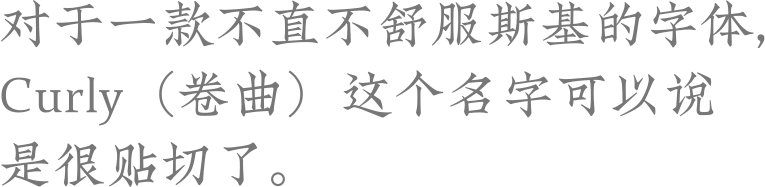
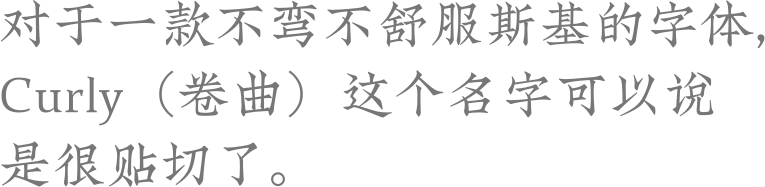
feat: 🎸 new content

Changed region(s): [[0.3608, 0.0267, 0.4209, 0.2406]]

diff --git a/src/data/dayInfo.ts b/src/data/dayInfo.ts
@@ -68,10 +68,10 @@ export default `
 3.4 | Axia Stencil Black | Axia Stencil | Stencil 指的笔画镂空的字体模板，它们会使用细线连接字腔（比如 O 中的圈）和主体，印到成品上时这些细线就成为了截断笔画的部分。 | |
 3.5 | Just Another Hand | JustAnotherHand-Regular.ttf | 山穷水尽疑无路，#柳暗花明又一村。 | 它源于作者某次心血来潮用一种全新的笔迹写#字。当苦于当下的困境时，不妨试试换一个思#路？|
 3.6 | Average | Average-Regular.ttf | 这是一款用许多衬线字体平均出来的「标准字」。 | 和之前社交网站上火过的标准脸给我有同样的感觉——它们绝对比超过一半的样本好看。 |
-3.7 | Curly | Curly.otf | 对于一款不直不舒服斯基的字体，#Curly（卷曲）这个名字可以说#是很贴切了。 | |
+3.7 | Curly | Curly.otf | 对于一款不弯不舒服斯基的字体，#Curly（卷曲）这个名字可以说#是很贴切了。 | |
 3.8 | Eskorte | Eskorte Latin | 「妇女能顶半边天」 | 今天的字体来自于早期占少数的女性设计师，是她们用自己的才华赢得了平等与尊重。 |
 3.9 | Press Start 2P | PressStart2P-Regular.ttf | 熟悉的像素风，是不是让你有再一次重拾红白机的感觉呢？ | |
-3.10 | Josefin Sans | JustAnotherHand-Regular.ttf | 奥斯卡奖使用的就是少许改动过的#Josefin Sans。 | |
+3.10 | Josefin Sans | JosefinSans-Light.ttf | 奥斯卡奖使用的就是少许改动过的#Josefin Sans。 | |
 3.11 | Alike Angular | AlikeAngular-Regular.ttf | 字体中的钢铁直男说得大概就是它#了！ | 这款字体用短直线代替了所有的弧线作为笔画边缘。 |
 3.12 | Fairwater | Fairwater Sailor Serif | 植树节，在屏幕上种下一颗小树苗#吧！ | |
 3.13 | IM Fell DW Pica SC | IMFePIsc28P.ttf | 一款自带侦探片音效的字体。 | 许多侦探小说翻拍的电影里都有打字机正在工作的镜头，而且一般内容都比较毛骨悚然（比如凶手的信之类的）。 |
@@ -80,22 +80,32 @@ export default `
 3.16 | 站酷庆科黄油体 | ZCOOLQingKeHuangYou-Regular.ttf | 线条刚硬却有带着一些圆角，恰似黄油软糯的质地吧！ | 这款包含了九千多个汉字的字体，由设计师郑庆科在站酷和 Google Fonts 发布免费商用版权。 |
 3.17 | Dragon Serial | SoftMaker - DragonSerial.otf | 二月二，龙抬头。| 今天是农历二月初二，传说是龙抬头的日字。 |
 3.18 | Libre Barcode 39 Text | LibreBarcode39Text-Regular.ttf | 这是一款自带条形码的字体…… | |
-
+3.19 | Srisakdi | Srisakdi-Regular.ttf | 这款字体的设计者是一个泰国人。字母中的装饰性元素很大程度上受到了泰文的启发。 | |
+3.20 | Crimson Text | CrimsonText-Regular.ttf | 有时候我们选择一种字体是为了让字体的特色尽可能弱化，而让文字内容得以彰显。 | 这是一款专为印刷书籍设计的字体。 |
+3.21 | Bungee Shade | BungeeShade-Regular.ttf | 有时候我们也需要非常令人印象深刻的字体，使得我们的招牌在大量的文字背景中脱颖而出。 | 这是一款为都市生活设计的招牌字体。 |
+3.22 | Over the Rainbow | OvertheRainbow.ttf | Somewhere over the rainbow#Way up high#There's a land that I heard of#Once in a lullaby | 又到周五了，听首好歌让心情放个假！ |
+3.23 | Bangers | Bangers-Regular.ttf | 为什么欧美漫画总用大写字母？#原因有些众说纷纭，其中的一种说法是，早期手写文本的年代，大写字母的可读性比小写字母更好一些。 | 这是一款 19 世纪超级英雄漫画常用的字体。 |
+3.24 | Orbitron | Orbitron-Regular.ttf | 作为一款科幻感十足的字体，「飞碟巡航」的名字恰如其分。 | |
+-->
+3.25 | Audiowide | Audiowide-Regular.ttf | 昨天的 Orbitron 和今天的 Audiowide都带有科技和未来的感觉。如果说前者更偏重于科幻的话，那么后者可能更偏重于科技感。 | 但是，谁说未来一定是高科技的呢？ |
+3.26 | Unica One | UnicaOne-Regular.ttf | 因为大小写的关系，这款字体我们可能看着有些别扭，但也因此很适合在有特色的标题或短文本中使用。 | 「Unicase」的意思是不区分大小写，据说早期的字母都是不区分大小写的。 |
+3.27 | Major Mono Display | MajorMonoDisplay-Regular.ttf | 这是一款全大写的等宽字体，一些随性的跳脱的设计使得它成为一种活泼有趣的选择。 | 注意到全大写字体和不区分大小写字体的区别了吗？看看历史页面里昨天的页面吧！|
+<!--
+3.28 | Whitman | Whitman | 优雅的衬线体，搭配上富有诗意的名字，一看就是为印刷品设计的字体。 | 沃尔特·惠特曼是美国著名诗人、散文家。 |
+3.29 | Patrick Hand | PatrickHand-Regular.ttf | 顾名思义，这是 Patrick「写」出来的一款字体。 | 到底是字写的好看而成为了字体设计师，还是做字体设计让自己的字也变好看了呢？ |
+3.30 | Liquorstore 3D | Liquorstore 3D | 今天是智利的品酒节。不妨暂时忘了繁忙的工作，和我们一起来小酌一杯吧？ | Liquorstore 意为卖酒的店，是不是看起来特别像酒店的木质招牌呢？ |
+3.31 | Comfortaa | Comfortaa-Regular.ttf | 舒服啊啊…… | Comport 是「舒服」的意思，aa 是「啊啊」的意思。说真的，我应该去做教英语的 App 吧？ |
 2.1 | Vectora | Vectora LT Pro 55 Roman | Vectora的小写字母比大写字母小不了多少，使得其非常适合在小字号下使用 |  |
 2.2 | ITC American Typewriter | itc-american-typewriter.ttf | 「一锅火热的爱」 | 经典的「I ❤ NY」用的就是 American Typewriter。 |
 2.6 | JAF Domus Titling | Domus Titling Extrabold | 圆润的末端和字腔增加了几分卡通的色彩，字母 0 有没有长得像一个甜甜圈？反正我又饿了… |  |
-2.9 | Clarendon Text | Clarendon Text Pro Bold | 年初五是迎财神的日子，就选看着就多金的字体祝大家新年有财运吧。 | Clarendon 是美国富国（WELLS FARGO）银行 Logo 使用的字体。 |
-2.11 | Over the Rainbow | OvertheRainbow.ttf | 「Somewhere over the rainbow way up high There's a land that I heard of once in lullaby」 | 节后第一个工作日，听首轻松欢快的歌儿吧~ |
 2.13 | Capucine | Capucine Basic Light | 工作久了的时候，不妨伸个懒腰，可以看上去更活力哦 | Capucine通过垂直笔画上稍稍弯曲让整体看上去不那么死板。 |
 2.15 | Mono45 Headline | Mono45-Headline Regular | 0 和 O 傻傻分不清楚？加一根斜线吧。 |  |
-2.19 | Patrick Hand | PatrickHand-Regular.ttf | 顾名思义，这是Patrick「写」出来的一款字体。 | 到底是字写的好看而成为了字体设计师，还是做字体设计让自己的字也变好看了呢？ |
 2.20 | Grand Italic | North Type - NTF-Grand Italic.otf | 笔直的线条总给人一股冷酷的感觉，再粗一点就能拿来给碟中谍做片头了吧。 |  |
 2.23 | PhotoWall Sans Shadow | PhotoWallSansShadow-Regular.otf | 利用阴影来制造立体感已经是一种古老的套路，却依旧能骗到一双双眼睛。 |  |
 2.25 | Faster One | FasterOne-Regular.ttf | 「Run Faster than HK Journalists」 |  |
 2.27 | Sacramento | Sacramento-Regular.ttf | 即便只有一条细线，照样能耍出花样。 |  |
 2.28 | Blitz | Wiescher Design - Blitz-Thin.otf | 头重脚轻往往容易给人一种摇摇欲坠的感觉，在字体里进行这样的尝试却有意外的动感收获 |  |
-3.30 | Liquorstore 3D | Liquorstore 3D | Liquorstore 意为卖酒的店，是不是看起来特别像酒店的木质招牌呢？ | 今天是智利的品酒节。 |
-
+4.23 | Bookmania | Bookmania | 今天是「世界图书与版权日」，让我们为图书狂欢吧！ | 字体名称中的 mania 是「狂热」的意思。|
 5.06 | Lato | | Lato在波兰语中的含义是「夏天」||
 10.24 | Hack | 又一款专为代码编辑设计的字体 ||
 -->

diff --git a/src/pages/about/about.html b/src/pages/about/about.html
@@ -45,7 +45,8 @@
       <p>我喜欢设计和画画，还有很多杂七杂八的爱好。我喜欢用编程的方式解决生活中的问题，创造一些有意思的个人独立项目。但写代码只是我生活中的一小部分，也是这个项目中的小部分。</p>
       <p><em>我想，最重要的还是对生活本身的观察，在其之后才是设计怎样去改进它。</em></p>
       <p>我还做过不少有趣的项目，欢迎到我的个人主页或 GitHub 了解，希望你喜欢！</p>
-      <p>微博：@羡辙，GitHub：@Ovilia，个人主页：<a href="http://zhangwenli.com/?refs=2019-calendar">zhangwenli.com</a></p>
+      <p>微博：<a href="http://weibo.com/plainjane">@羡辙</a>，GitHub：@Ovilia。</p>
+      <p>我的个人主页：<a href="http://zhangwenli.com/?refs=2019-calendar">zhangwenli.com</a>，如果你愿意，也可以<a href="http://zhangwenli.com/blog/tip/?refs=2019-calendar">送我一本好书</a>。</p>
       <p>如果有问题，可以发邮件反馈给我：me at zhangwenli.com</p>
     </ion-card-content>
   </ion-card>
@@ -75,7 +76,7 @@
       <p>因为功能很简单，我用一周左右的业余时间就完成了。一开始申请 App Store 的时候，还发生了一个小插曲，就是 App Store 认为这个 App 太过简单了，拒绝了上架。但是在我的坚持之下，向 App Store 申诉，声明这个应用的功能确实很简单，但是它能解决实际的需求。幸运的是，这次通过了审核！</p>
       <p>我非常高兴——我在 App Store 上有自己的作品了！上架后好像也没多少收入，购买者的可能也是我为数并不太多的粉丝群体。到了将近一年的时候，我还自嘲说，这一年的 App Store 年费（99刀）都赚不回来了。</p>
       <p>就在一年快结束的时候，牙哈哈居然在 2018 年 8 月 2 日被 App Store 推荐为「今日主题」了。虽然这是一个主题列表，但好歹今日 App Store 首页推荐了，而且还是这个主题中的第一个。这让我特别有成就感！后来可能也因此获得了一些流量，最终不但赚回年费还小有收成。当然如果算上开发和维护时间的话，做这个 App 的时薪非常低了。但是我觉得很开心——因为我坚持做自己觉得有意义的事，并且小有所成。</p>
-      <p>再后来，有用户给我发邮件，说感谢我做了牙哈哈，对他很有帮助等等。还有用户跟我分享了不开心的经历，很惊喜开发者居然会回邮件。（我当然会回的啦，你有什么想说的也欢迎告诉我呀：me@zhangwenli.com。）这时候，我觉得我做的 App 虽然可能是 99% 的人用不到的，但是能帮助到那 1% 的用户，这就是一件很有价值的事。</p>
+      <p>再后来，有用户给我发邮件，说感谢我做了牙哈哈，对他很有帮助等等。还有用户跟我分享了不开心的经历，很惊喜开发者居然会回邮件。（我当然会回的啦，你有什么想说的也欢迎<a href="mailto:me@zhangwenli.com">告诉我呀</a>）这时候，我觉得我做的 App 虽然可能是 99% 的人用不到的，但是能帮助到那 1% 的用户，这就是一件很有价值的事。</p>
       <div class="split"></div>
       <p>所以，当我想要开发「2019 字体日历」的时候，我没有再去问我的朋友有没有需求，而是赶紧在新年前把它做出来，做好。</p>
       <div class="split"></div>

diff --git a/src/utils/license.ts b/src/utils/license.ts
@@ -8,7 +8,7 @@ const license = [
             而中文字库由于字数庞大，商用字体费用更是贵得吓人，像我这样的个人开发者根本无法承担。别说做个日历需要 365 种字体了，大部分中文商用字体的费用，可能我做的这个 App 的收入还不够买一个的。
             感谢喜鹊造字让中文字体的世界变得更美好！
             以下字体来自喜鹊造字，已购买商用版权。`,
-        fonts: ['喜鹊聚珍体', '喜鹊古典体']
+        fonts: ['喜鹊聚珍体', '喜鹊古字典体']
     },
     {
         id: 'adobe',
@@ -16,7 +16,7 @@ const license = [
         fonts: ['Trajan Pro 3', 'Baskerville PT', 'Source Han Serif', 'OCR B', 'P22 Underground', 'Eurostile',
             'Myriad', 'Neue Aachen', 'Utopia', 'Gastromond', 'LTC Broadway', 'DIN 1451 Pro', 'Big Caslon', 'Balloon URW',
             'Gill Sans Nova', 'Scriptorama Markdown JF', 'Matrix II', 'Volina', 'Oxtail', 'ITC Avant Garde Gothic',
-            'LTC Bodoni 175', 'Blenny Black', 'Rad', 'Variex', 'PMN Caecilia', 'PMN Caecilia Sans', 'New Zen', 'Source Han Sans', 'Study', 'Remedy', 'Anonymous', 'Lo-Res', 'Voltage', 'OCR A', 'Bello', 'Bell Centennial', 'Axia Stencil Black', 'DINosaur', 'Eskorte Latin Extrabold Italic', 'Fairwater Sailor Serif Regular', 'JAF Domus Titling','Calibri']
+            'LTC Bodoni 175', 'Blenny Black', 'Rad', 'Variex', 'PMN Caecilia', 'PMN Caecilia Sans', 'New Zen', 'Source Han Sans', 'Study', 'Remedy', 'Anonymous', 'Lo-Res', 'Voltage', 'OCR A', 'Bello', 'Bell Centennial', 'Axia Stencil Black', 'DINosaur', 'Eskorte Latin Extrabold Italic', 'Fairwater Sailor Serif Regular', 'JAF Domus Titling','Calibri', 'Liquorstore 3D', 'Whitman']
     },
     {
         id: 'apache',
@@ -28,7 +28,7 @@ const license = [
         name: 'SIL Open Font License',
         desc: '以下字体来自 Google Fonts，基于 SIL Open Font License。',
         fonts: ['Gloria Hallelujah', 'Bad Script', 'Merienda', 'Monoton', 'Dancing Script', 'Lobster', 'Vollkorn', 'Cookie',
-            'Tangerine','Alice','Cinzel','Average','Press Start 2P','Josefin Sans','Alike Angular','IM Fell DW Pica SC', '站酷庆科黄油体', 'Libre Barcode 39 Text'],
+            'Tangerine','Alice','Cinzel','Average','Press Start 2P','Josefin Sans','Alike Angular','IM Fell DW Pica SC', '站酷庆科黄油体', 'Libre Barcode 39 Text', 'Srisakdi', 'Crimson Text', 'Bungee Shade', 'Over the Rainbow', 'Orbitron', 'Audiowide', 'Unica One', 'Major Mono Display', 'Bangers', 'Whitman', 'Comfortaa', 'Liquorstore 3D', 'Patrick Hand'],
         detail: `
             SIL Open Font License
             PREAMBLE

diff --git a/src/entities/calendarCanvas.ts b/src/entities/calendarCanvas.ts
@@ -124,8 +124,14 @@ export default class CalendarCanvas {
             const targetWidth = 258;
             let targetHeight = 225;
 
-            if (date === '2.5') {
-                targetHeight = 350;
+            switch (date) {
+                case '2.5':
+                    targetHeight = 350;
+                    break;
+
+                case '3.31':
+                    targetHeight = 200;
+                    break;
             }
 
             const result = {
@@ -143,15 +149,23 @@ export default class CalendarCanvas {
                 result.width = result.height / img.height * img.width;
             }
 
-            if (result.width < 200) {
-                result.right = padding;
+            switch (date) {
+                case '3.31':
+                    result.right = padding;
+                    break;
+
+                default:
+                    if (result.width < 200) {
+                        result.right = padding;
+                    }
+                    else if (result.width > 260) {
+                        result.right = -padding * 2;
+                    }
+                    else {
+                        result.right = -padding;
+                    }
             }
-            else if (result.width > 260) {
-                result.right = -padding * 2;
-            }
-            else {
-                result.right = -padding;
-            }
+
             return result;
         };
         const datePos = getDatePosition(dateImg);

diff --git a/src/pages/home/home.ts b/src/pages/home/home.ts
@@ -15,6 +15,7 @@ import { IS_DEBUG, NOTIIFICATION_ID_DAILY, STORE_KEY, LAST_AVAILABLE_DATE } from
 import { getDate } from '../../utils/time';
 import { AudioService } from '../../services/audio';
 import { getExportBase64 } from '../../utils/share';
+import random from '../../utils/random';
 
 const PAGE_NAME = 'home';
 
@@ -237,12 +238,19 @@ export class HomePage {
                 this.setNotification();
             }
             if (!this.canTear()) {
-                this._toast('还不能撕哦~ 等日历上的日子过了吧！');
+                const text = [
+                    '还不能撕哦~ 等日历上的日子过了吧！',
+                    '明天再来撕吧！期待哟~',
+                    '不要心急~ 今天也要好好过呀！',
+                    '再等等吧！明天才能撕哦~',
+                    '先把今天过好，再来撕明天的日历吧！'
+                ];
+                this._toast(random(text));
             } else if (this.needUpgrade()) {
                 this.promptUpdate();
             }
         }
-        else {
+        else if (this.canTear()) {
             this._toast('下拉撕去当前页哟~');
         }
     }

diff --git a/src/utils/constants.ts b/src/utils/constants.ts
@@ -6,8 +6,8 @@ if (IS_DEBUG) {
     console.log('THIS IS IN DEBUG MODE.');
 }
 
-export const VERSION = '1.3.1';
-export const LAST_AVAILABLE_DATE = '2019-03-18';
+export const VERSION = '1.3.2';
+export const LAST_AVAILABLE_DATE = '2019-03-31';
 
 export const DPR = 2;
 export const IMAGE_DPR = 3;
